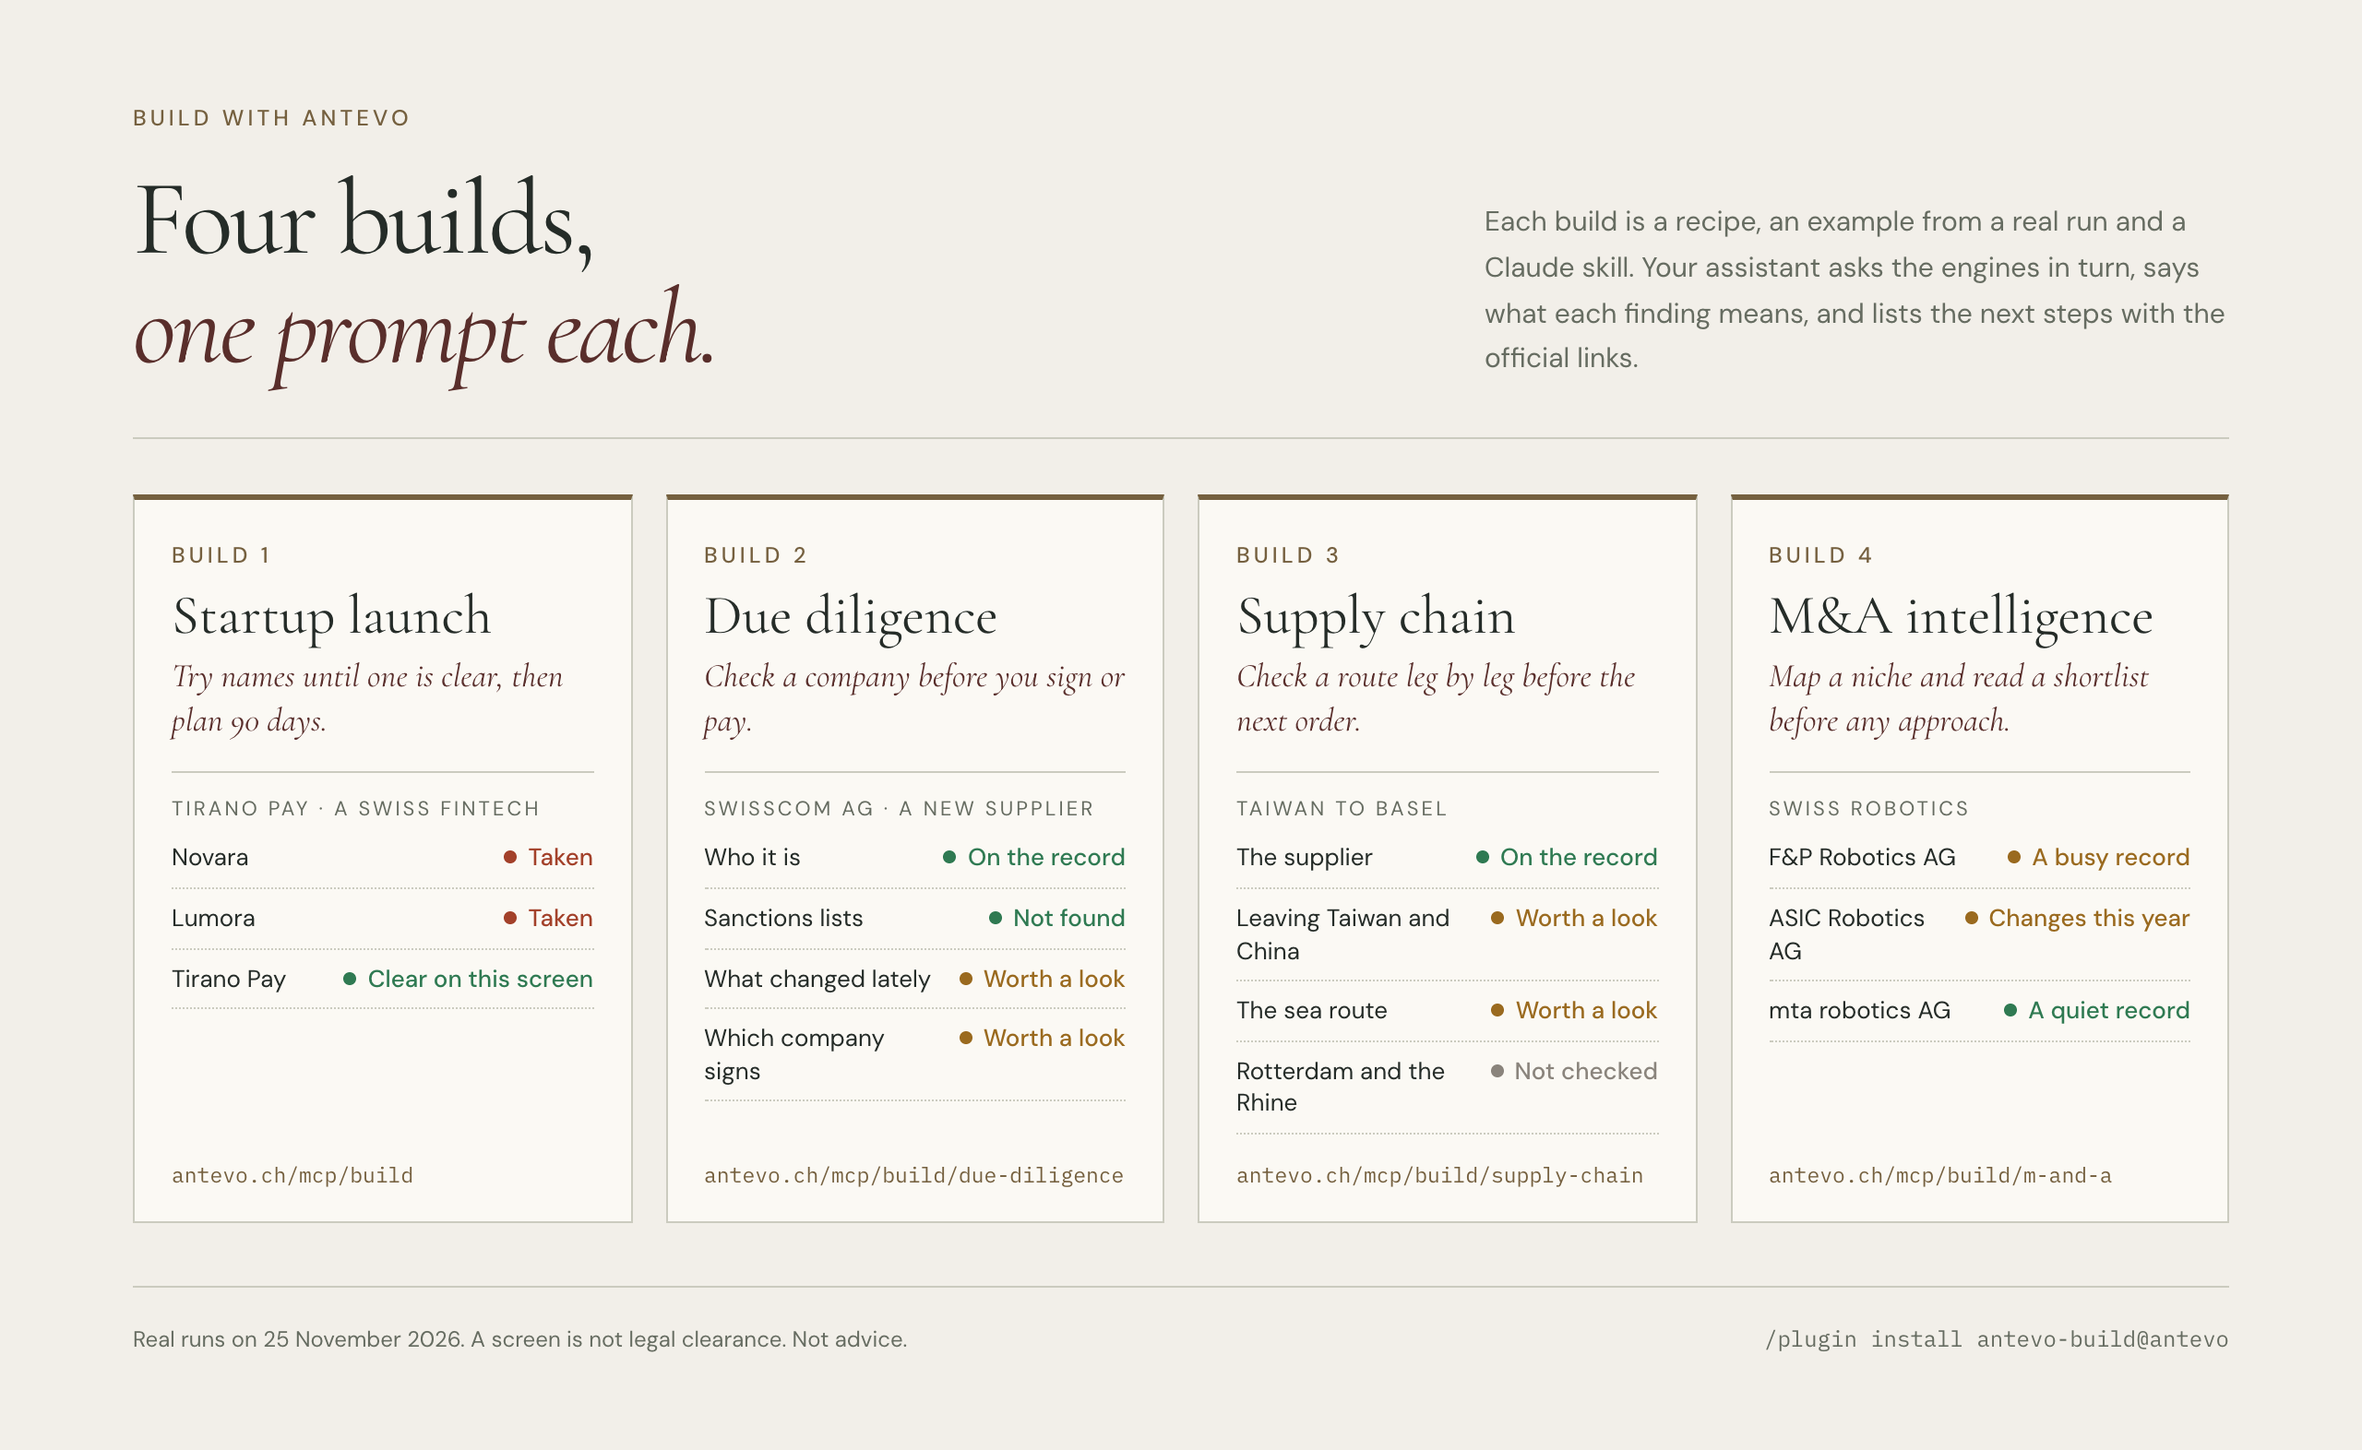
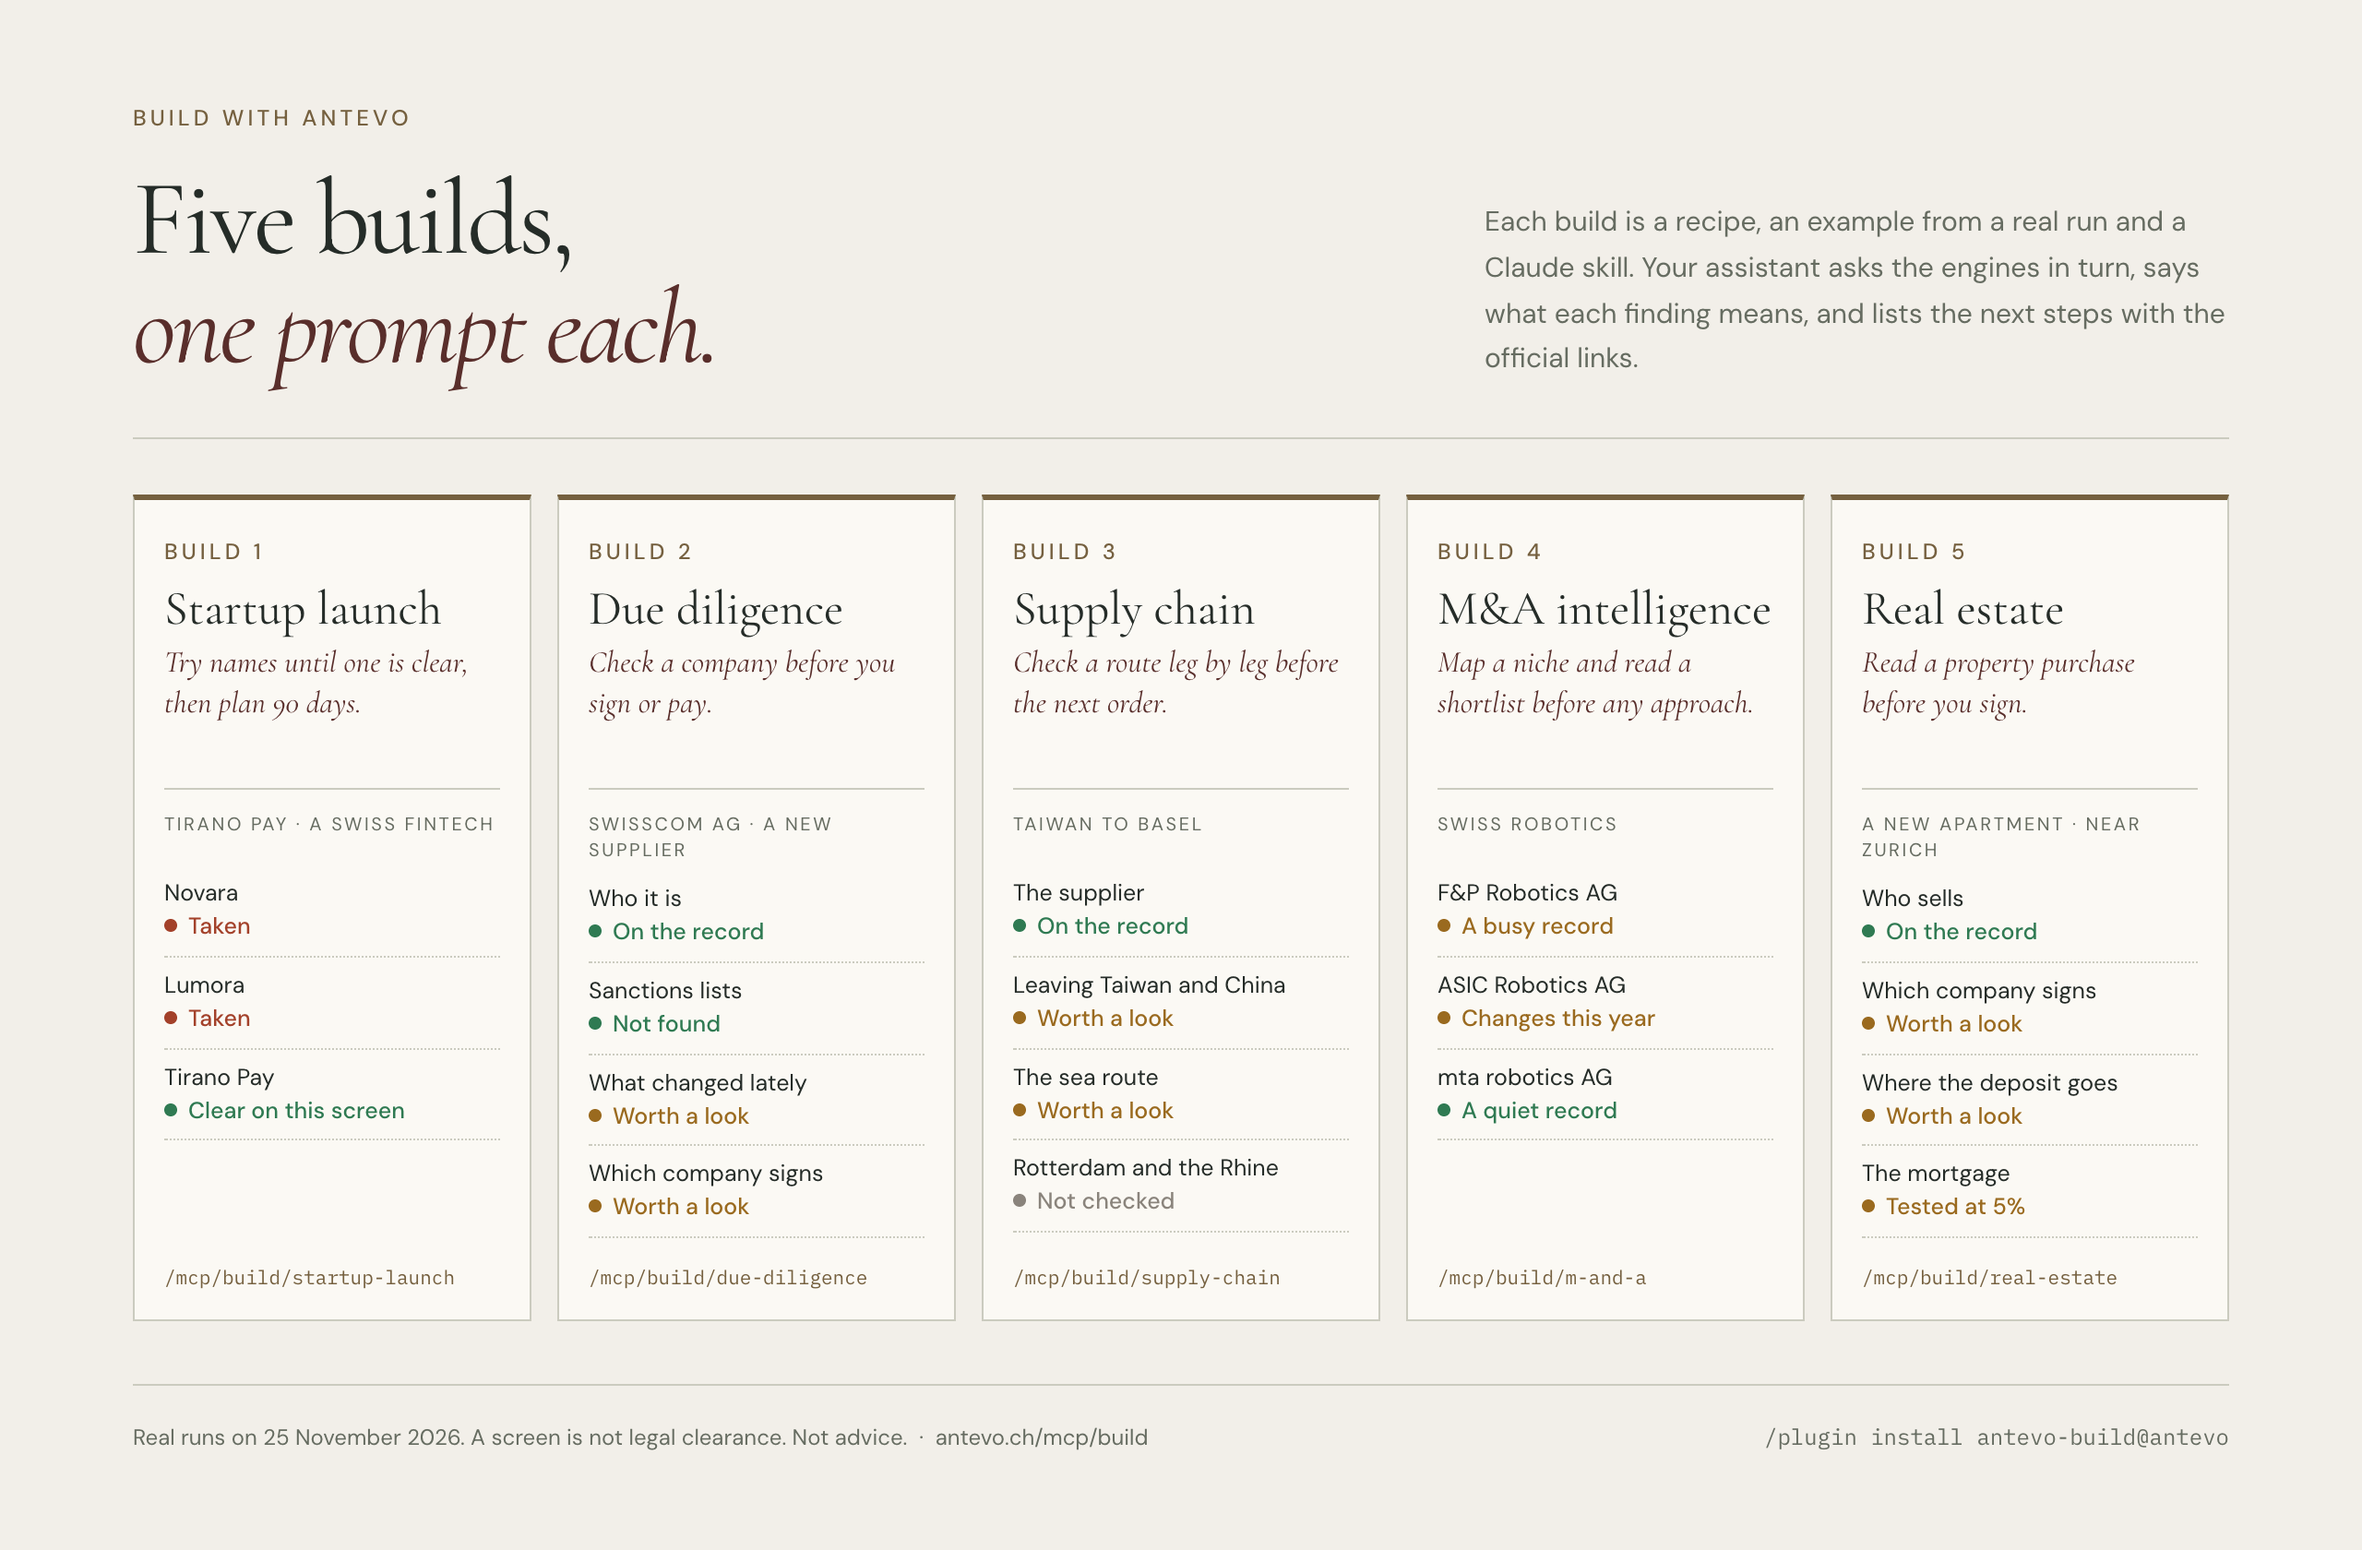
Profile: five builds, 43 skills (#15)
* Point Startup launch at its own page

The build hub now lives at antevo.ch/mcp/build/ and the first build moved to
antevo.ch/mcp/build/startup-launch/. Link and builds picture follow.

* Profile: five builds, 43 skills

Real estate acquisition joins the builds; the builds picture shows five cards.

---------

diff --git a/profile/README.md b/profile/README.md
@@ -20,7 +20,7 @@
 
 **Antevo makes intelligence products for trademarks, company records, private wealth and market risk.** It connects developments in the world to the things you own, manage and protect, with the record behind each connection. Bring it into the assistant you already use: Claude, ChatGPT, Cursor, VS Code, Gemini CLI, Kiro, or a terminal. [What is Antevo?](https://antevo.ch/about/)
 
-<p align="center"><b><a href="https://github.com/ANTEVO-CH/plugins">Start with ANTEVO-CH/plugins →</a></b><br><sub>Eight plugins and 42 skills for Claude, one install each</sub></p>
+<p align="center"><b><a href="https://github.com/ANTEVO-CH/plugins">Start with ANTEVO-CH/plugins →</a></b><br><sub>Eight plugins and 43 skills for Claude, one install each</sub></p>
 
 ## The engines
 
@@ -53,11 +53,11 @@ All nine are listed in the official [MCP Registry](https://registry.modelcontext
 <a href="https://antevo.ch/mcp/build/">
 <picture>
   <source media="(prefers-color-scheme: dark)" srcset="https://raw.githubusercontent.com/ANTEVO-CH/.github/main/profile/assets/builds-dark.png">
-  <img alt="Four builds, one prompt each: Startup launch, Due diligence, Supply chain and M&A intelligence, each with its real run of 25 November 2026." src="https://raw.githubusercontent.com/ANTEVO-CH/.github/main/profile/assets/builds-light.png" width="100%">
+  <img alt="Five builds, one prompt each: Startup launch, Due diligence, Supply chain, M&A intelligence and Real estate, each with its real run of 25 November 2026." src="https://raw.githubusercontent.com/ANTEVO-CH/.github/main/profile/assets/builds-light.png" width="100%">
 </picture>
 </a>
 
-Each build is a recipe, an example from a real run and a Claude skill in `antevo-build`. [Startup launch](https://antevo.ch/mcp/build/) · [Due diligence](https://antevo.ch/mcp/build/due-diligence/) · [Supply chain](https://antevo.ch/mcp/build/supply-chain/) · [M&A intelligence](https://antevo.ch/mcp/build/m-and-a/)
+Each build is a recipe, an example from a real run and a Claude skill in `antevo-build`. [Startup launch](https://antevo.ch/mcp/build/startup-launch/) · [Due diligence](https://antevo.ch/mcp/build/due-diligence/) · [Supply chain](https://antevo.ch/mcp/build/supply-chain/) · [M&A intelligence](https://antevo.ch/mcp/build/m-and-a/) · [Real estate](https://antevo.ch/mcp/build/real-estate/)
 
 ```text
 /plugin marketplace add ANTEVO-CH/plugins
@@ -119,7 +119,7 @@ gemini extensions install https://github.com/ANTEVO-CH/antevo-mcp
 | | |
 |:--|:--|
 | [**antevo-mcp**](https://github.com/ANTEVO-CH/antevo-mcp) | Connection metadata — registry manifests, Cursor plugins, Kiro powers, the Gemini CLI extension and install links. MIT. |
-| [**plugins**](https://github.com/ANTEVO-CH/plugins) | Claude plugins: each connection with its skills, 42 in all, and four builds on top, one install each. |
+| [**plugins**](https://github.com/ANTEVO-CH/plugins) | Claude plugins: each connection with its skills, 43 in all, and five builds on top, one install each. |
 | [**cli**](https://github.com/ANTEVO-CH/cli) | `@antevo/cli` — the same connections from a terminal, scriptable. |
 
 <br>
